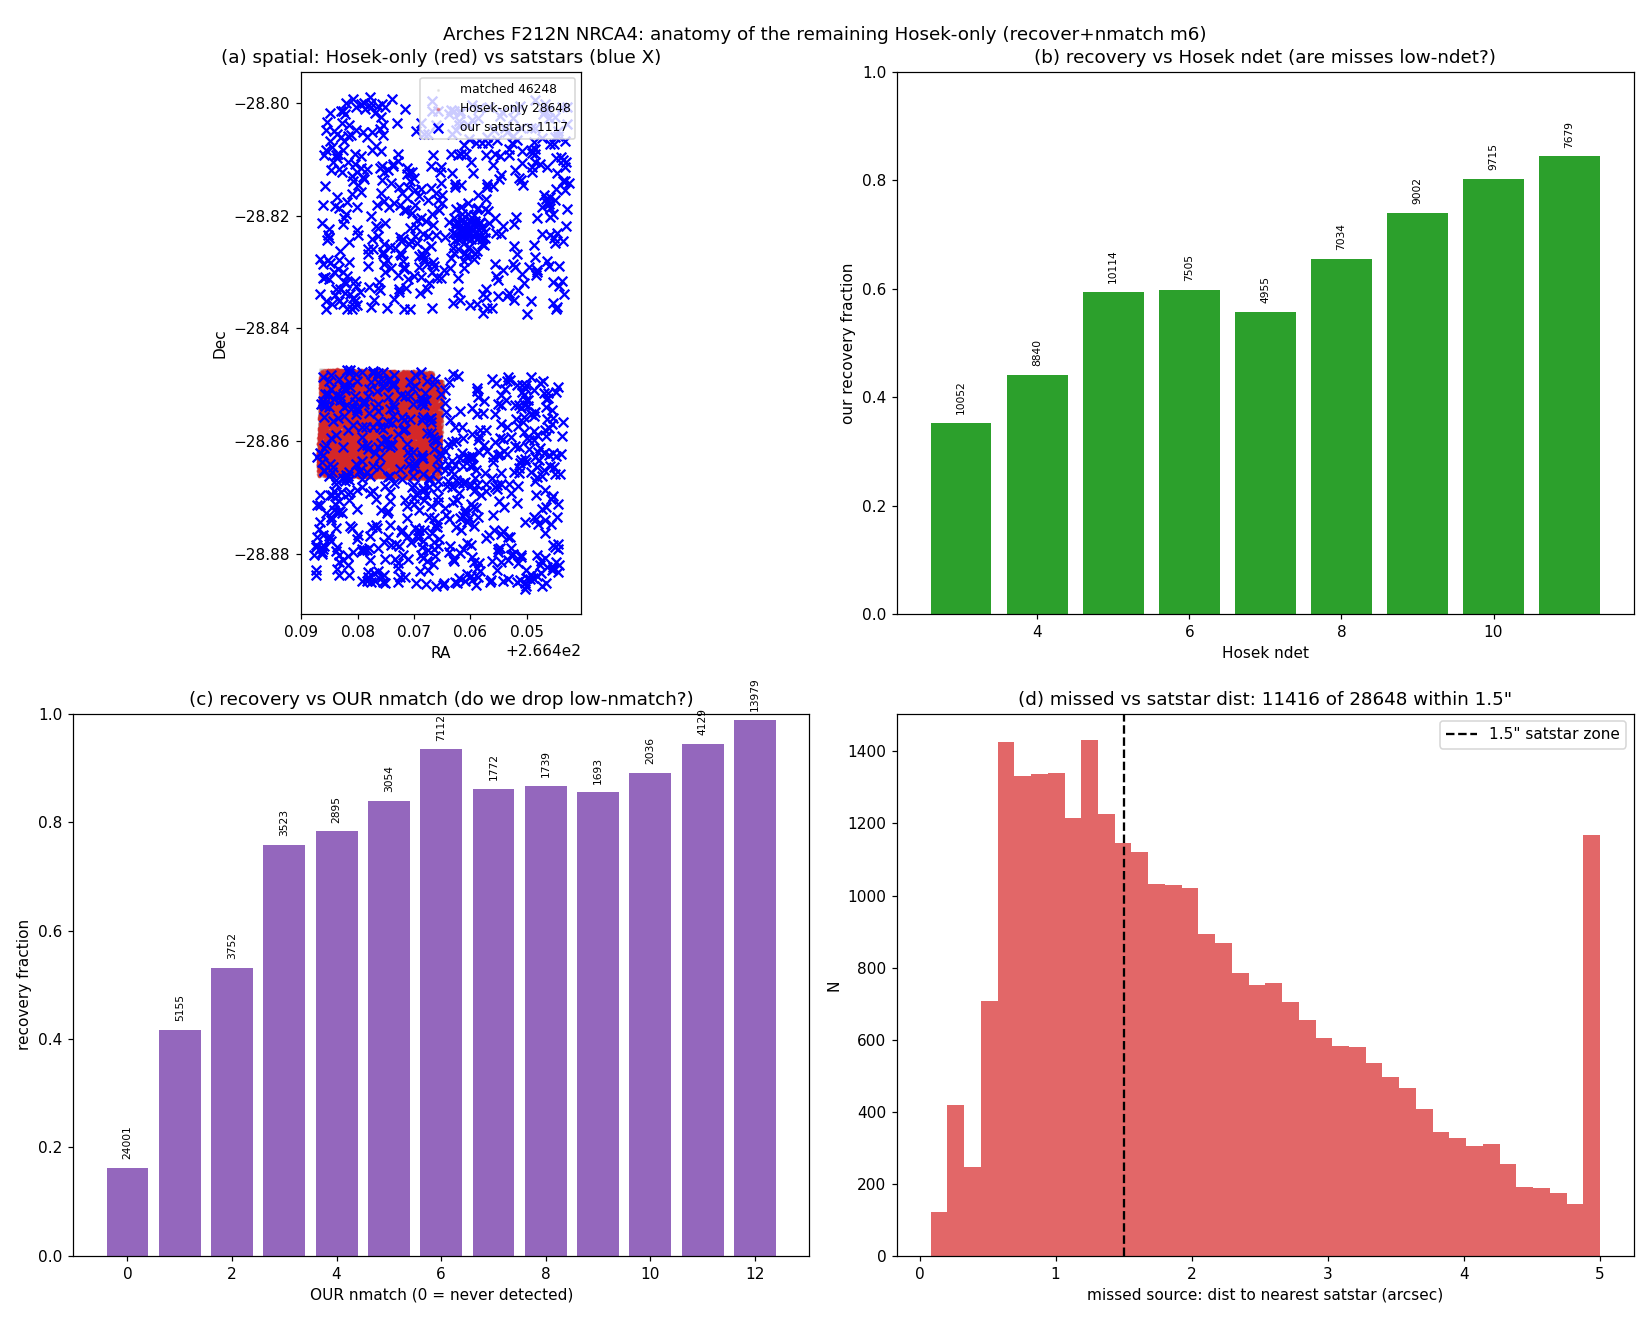
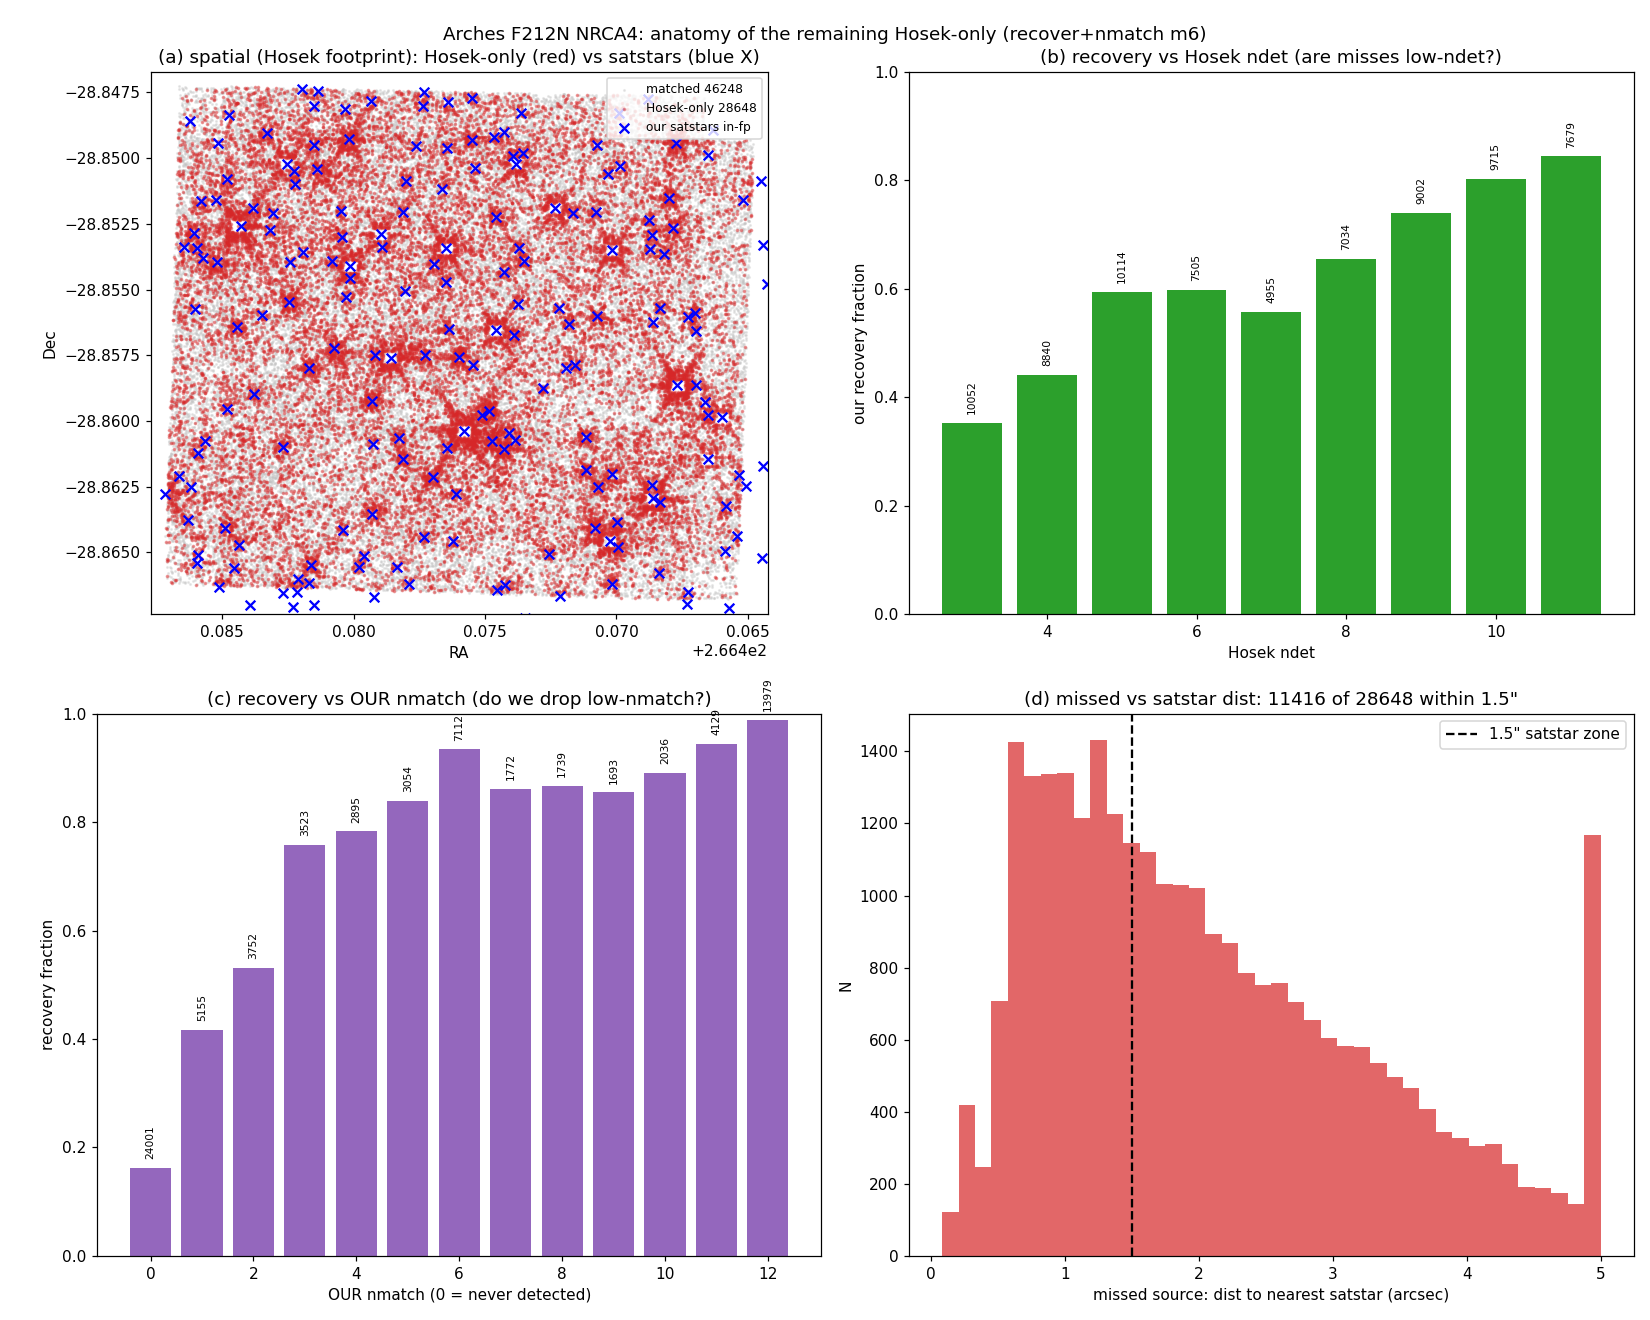
docs: zoom the remaining-miss spatial panel to the Hosek footprint
Panel (a) showed the whole NRCA field (satstars everywhere, misses in one
sub-region).  Zoom to the Hosek NRCA4 comparison footprint so the miss/satstar
clustering is legible.

Claude-Session: https://claude.ai/code/session_01NCrrq3GQ4LHZu2v2ss7KK7

diff --git a/docs/multiframe_keep_verification/diagnose_remaining_misses.py b/docs/multiframe_keep_verification/diagnose_remaining_misses.py
@@ -45,9 +45,13 @@ fig,ax=plt.subplots(2,2,figsize=(15,12))
 a=ax[0,0]
 a.scatter(H['ra'][matched],H['dec'][matched],s=1,c='0.75',alpha=0.3,label=f'matched {matched.sum()}')
 a.scatter(H['ra'][miss],H['dec'][miss],s=2,c='tab:red',alpha=0.4,label=f'Hosek-only {miss.sum()}')
-if len(satc): a.scatter(satc.ra.deg,satc.dec.deg,s=40,marker='x',c='blue',label=f'our satstars {sat.sum()}')
-a.set_xlabel('RA'); a.set_ylabel('Dec'); a.invert_xaxis(); a.set_aspect('equal'); a.legend(fontsize=8)
-a.set_title('(a) spatial: Hosek-only (red) vs satstars (blue X)')
+if len(satc): a.scatter(satc.ra.deg,satc.dec.deg,s=40,marker='x',c='blue',label=f'our satstars in-fp')
+# zoom to the Hosek comparison footprint (with a small pad), not the whole NRCA field
+_pad=2/3600
+a.set_xlim(H['ra'].max()+_pad, H['ra'].min()-_pad)   # RA descending (already inverted)
+a.set_ylim(H['dec'].min()-_pad, H['dec'].max()+_pad)
+a.set_xlabel('RA'); a.set_ylabel('Dec'); a.set_aspect('equal'); a.legend(fontsize=8)
+a.set_title('(a) spatial (Hosek footprint): Hosek-only (red) vs satstars (blue X)')
 # (b) recovery vs Hosek ndet
 a=ax[0,1]
 nd=np.arange(3,12); rec_nd=[matched[hndet==n].mean() if (hndet==n).sum() else np.nan for n in nd]